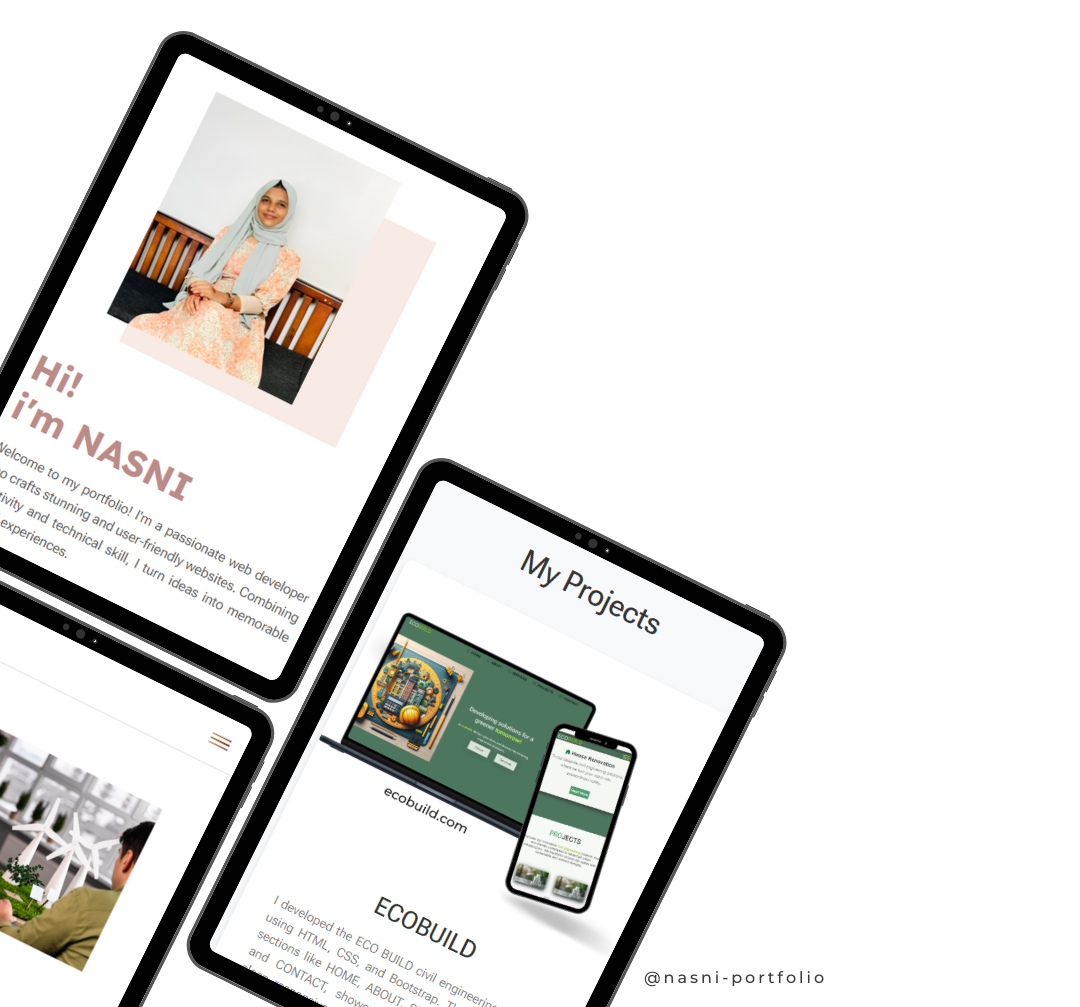
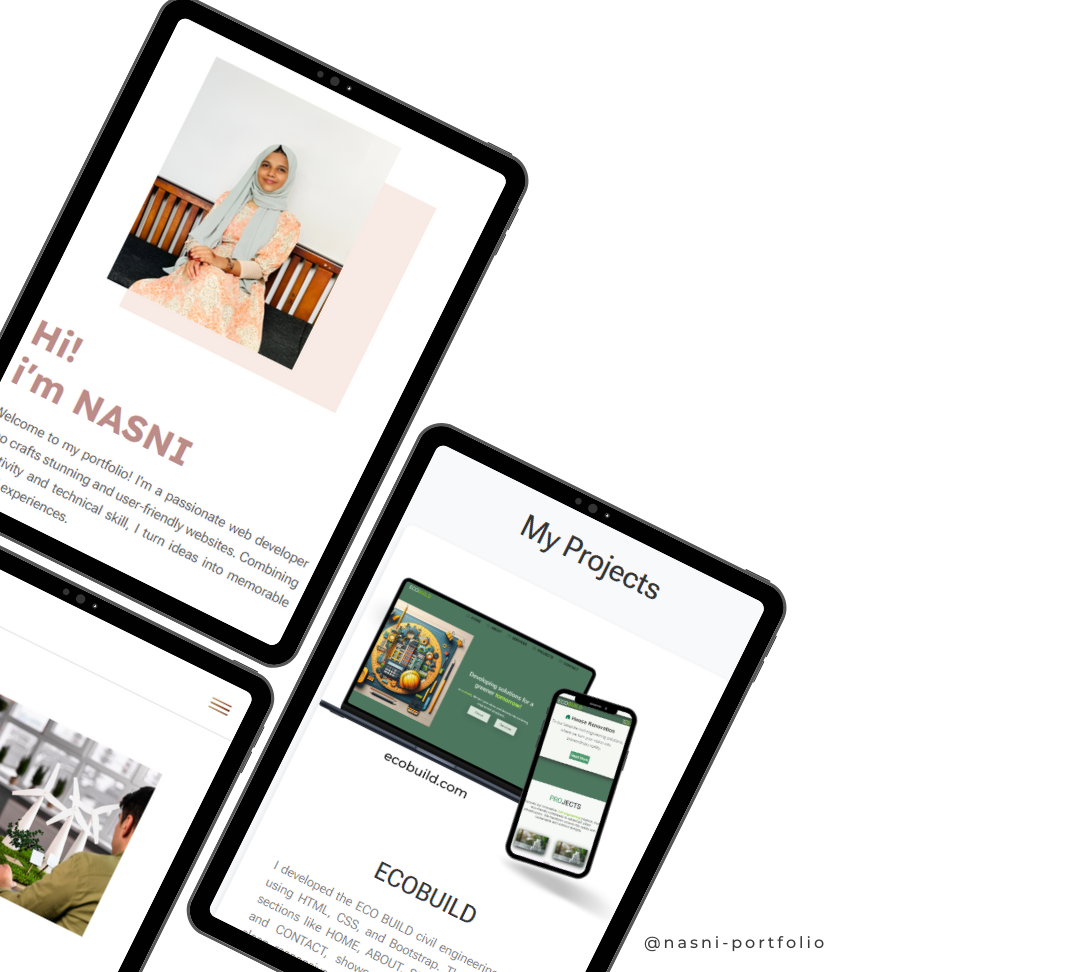
first commit

diff --git a/index.html b/index.html
@@ -65,9 +65,9 @@
             </div>
                 </div>
             
-                <div class="home-text col-md-5 mt-md-5 py-5 hidden">
+                <div class="home-text col-md-5 mt-md-5  py-4 d-flex flex-column justify-content-center hidden">
                     <h1>Hi!<br>i'm NASNI</h1>
-                    <p>Newly minted CS grad, ready to shine! HTML, CSS, JavaScript, and Bootstrap expert, creating fast, functional, and fantastic websites. Let's build something amazing!</p>
+                    <p>Newly minted CS grad, ready to shine! HTML, CSS, JavaScript, and Bootstrap expert, creating functional, and responsive websites. Let's build something amazing!</p>
                     <div class="social  col-md-6 col-lg-4 center-div ">
                       <a href="https://www.instagram.com/n_asnii_?igsh=MWJlamtpNWw2MjVvZg==" target="_blank" class=" d-flex justify-content-center">
                         <i class="bi bi-instagram"></i>
@@ -89,7 +89,7 @@
             <div class="abt-img d-flex justify-content-center hidden ">
                 <img src="assets/pexels-divinetechygirl-1181244.jpg" alt="About Image" >
             </div>
-            <div class="about-text text-center hidden">
+            <div class="about-text text-center hidden py-3 py-md-0">
                 <h1>About me!</h1>
                 <p class="col-md-9 py-2 mx-auto hidden">
                      I'm Nasni KT, a web design enthusiast and newly minted CS graduate, passionate about creating remarkable digital experiences. Leveraging my expertise in HTML, CSS, JavaScript, and Flutter, I design and develop websites that impress, engage, and drive results. Let's team up and turn your vision into a beautiful, functional, and impactful online presence!.
@@ -175,17 +175,17 @@
             <h2>My Projects</h2>
     
             <!-- Project 1 -->
-            <div class="project-card hidden">
+            <div class="project-card hidden py-0">
                 <div class="row align-items-center">
                     <div class="col-lg-6 order-lg-2">
                      
-                            <div class="mockup laptop">
+                            <div class="mockup">
                                 <img src="assets/Simple Easy Minimalist Multiple Devices Mockup Instagram Story.png" alt="Laptop Mockup" class="mockup-img">
                             </div>
                       
                     </div>
                     <div class="col-lg-6 order-lg-1">
-                        <div class="project-details">
+                        <div class="project-details ">
                             <h3>ECOBUILD</h3>
                             <p class="project-description">
                                 Built ECO BUILD website with HTML, CSS, & Bootstrap, featuring HOME, ABOUT, SERVICES, PROJECTS, & CONTACT sections, showcasing my expertise in clean, responsive, & professional web design.</p>
@@ -205,8 +205,8 @@
                 <div class="row align-items-center">
                     <div class="col-lg-6">
                         <div class="project-img-wrapper">
-                            <div class="mockup laptop">
-                                <img src="assets/Black Minimalist Website Mockup Instagram Post (2).png" alt="Laptop Mockup" class="mockup-img mr-5" style="width:90%">
+                            <div class="mockup">
+                                <img src="assets/Black Minimalist Website Mockup Instagram Post (1).png" alt="Laptop Mockup" class="mockup-img align-self-start" >
                             </div>
                         </div>
                     </div>
@@ -216,9 +216,9 @@
                             <p class="project-description">Built my portfolio website with HTML, CSS, JS, and Bootstrap, showcasing clean, responsive design and web development expertise, demonstrating my commitment to high-quality digital experiences.
                             </p>
                             <ul class="project-tech">
-                                <li>Flutter</li>
-                                <li>Dart</li>
-                                <li>Firebase</li>
+                                <li>HTML</li>
+                                <li>CSS</li>
+                                <li>JavaScript</li>
                             </ul>
                             <a href="#" class="btn btn-primary">View Project <i class="bi bi-arrow-right"></i></a>
                         </div>
@@ -231,8 +231,8 @@
                 <div class="row align-items-center">
                     <div class="col-lg-6 order-lg-2">
                         <div class="project-img-wrapper">
-                            <div class="mockup laptop">
-                                <img src="assets/Neutral Beige Aesthetic Fashion Mockup Instagram Story.png" alt="Laptop Mockup" class="mockup-img ml-md-5" style="width: 260px;">
+                            <div class="mockup">
+                                <img src="assets/Mobile App Phone Mockup Sales Marketing Presentation in Blue and White Modern Photocentric Style.jpg" alt="Laptop Mockup" class="ost-img align-self-end" >
                             </div>
                         </div>
                     </div>
@@ -242,9 +242,9 @@
                             <p class="project-description">
                                 OSTELLO is a web application created using Flutter and Firebase. It enhances hostel efficiency by addressing security, administration, and student portal needs.</p>
                             <ul class="project-tech">
-                                <li>HTML</li>
-                                <li>CSS</li>
-                                <li>JavaScript</li>
+                                <li>Flutter</li>
+                                <li>Dart</li>
+                                <li>Firebase</li>
                             </ul>
                             <a href="#" class="btn btn-primary">View Project <i class="bi bi-arrow-right"></i></a>
                         </div>

diff --git a/port.css b/port.css
@@ -110,7 +110,7 @@ html,body {
     position: absolute;
     width:370px;
     height: auto;
-    margin: -480px 0 0 170px;
+    margin: -480px 0 0 0px;
 }
 @media(max-width:576px){
     .home-img{
@@ -160,11 +160,13 @@ html,body {
         position: relative;
     }
 }
-@media(min-width: 1200px) {
+/* @media(min-width: 1200px) {
 .dad{
     margin-left: -150px;
+    
 }
-}
+
+} */
 
 .home-text{
     text-align: justify;
@@ -212,6 +214,7 @@ html,body {
     transform: scale(1.3);
 }
 .home-btn{
+    width: 100px;
     border:none;
     background-color: #bc8c888f;
     padding: 9px;
@@ -250,6 +253,7 @@ max-width: 1265px;
     text-align: justify;
 }
 @media(max-width:576px){
+   
     .about-text p{
         /* margin-top: 160px; */
        margin-left: 0px;
@@ -265,7 +269,7 @@ max-width: 1265px;
     position: absolute;
     max-width: 370px;
     height: auto;
-    margin: -90px 0 0 0;
+    margin: -80px 0 0 0;
 }
 }
 /* ================================================================ */
@@ -414,11 +418,29 @@ max-width: 1265px;
     align-items: center;
 }
 
-.mockup img.mockup-img {
-    width: 100%;
+.mockup img {
+    width: 70%;
   
 }
+@media(max-width:576px)
+{
+   
+    .mockup img{
+        width: 70%;
+    }
+.project-details h3{
+ font-size: 20px;
 
+}
+ 
+.project-card {
+    
+    max-width: 1000px;
+    height: 600px;
+
+}
+   
+}
 /* ================================================= */
 .connect {
     display: flex;
@@ -496,7 +518,6 @@ max-width: 1265px;
 }
 
 .social2 {
-    margin-top: 40px;
     display: flex;
     align-items: center;
     justify-content: center;
@@ -539,6 +560,7 @@ max-width: 1265px;
     }
     .social2 {
         gap: 15px !important;
+        padding: auto;
     }
     .social2 p {
         font-size: 10px !important;
